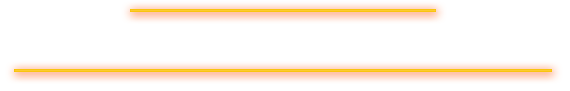
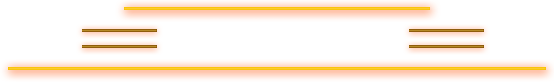
updated imgs, content

diff --git a/app/assets/stylesheets/swelly.css.scss b/app/assets/stylesheets/swelly.css.scss
@@ -65,14 +65,28 @@
 
 	h2 {
 		color: #fff;
-		font-family: 'Open Sans', sans-serif;
+		font-family: 'Open Sans Condensed', sans-serif;
 		font-weight: 600;
+		font-size: 24px;
+		margin-bottom: 25px;
+		margin-top: 30px;
 		text-transform: uppercase;
 	}
 
 	i {
 		font-size: 48px;
 		color: #FAB608;
+		position: relative;
+		bottom: -5px;
+		margin-right: 15px;
+	}
+}
+
+.gif {
+	padding-top: 40px;
+
+	img {
+		width: 360px;
 	}
 }
 
@@ -84,18 +98,43 @@
 		color: #fff;
 		font-family: 'Open Sans', sans-serif;
 		font-weight: 600;
+		margin-bottom: 25px;
+		margin-top: 30px;
+		font-size: 24px;
 		text-transform: uppercase;
 	}
 
 	i {
 		font-size: 48px;
+		width: 58px;
 		color: #FAB608;
+		position: relative;
+		margin-right: 15px;
+		bottom: -5px;
 	}
 }
 
 #act-three {
 	visibility: hidden;
 	padding-bottom: 220px;
+}
+
+.section-heading {
+	width: 376px;
+	float: left;
+}
+
+.section-heading-line {
+	background: url('/assets/act_line.png') repeat-x;
+	height: 58px;
+	margin-top: 67px;
+	margin-left: 400px;
+
+	.cap {
+		float: right;
+		margin-top: -17px;
+		margin-right: -28px;
+	}
 }
 
 .triangle {
@@ -105,10 +144,6 @@
 	margin-right: auto;
 	text-align: center;
 	position: relative;
-	transition: all .25s ease-in-out;
-	-webkit-transition: all .25s ease-in-out;
-	-moz-transition: all .25s ease-in-out;
-	-o-transition: all .25s ease-in-out;
 
 	.eng {
 		width: 309px;
@@ -205,12 +240,4 @@
 		font-size: 20px;
 		line-height: 30px;
 	}
-}
-
-.rotate {
-	-ms-transform: rotate(-120deg); /* IE 9 */
-    -webkit-transform: rotate(-120deg); /* Chrome, Safari, Opera */
-    -o-transform: rotate(-120deg);
-    -moz-transform: rotate(-120deg);
-    transform: rotate(-120deg);
 }
